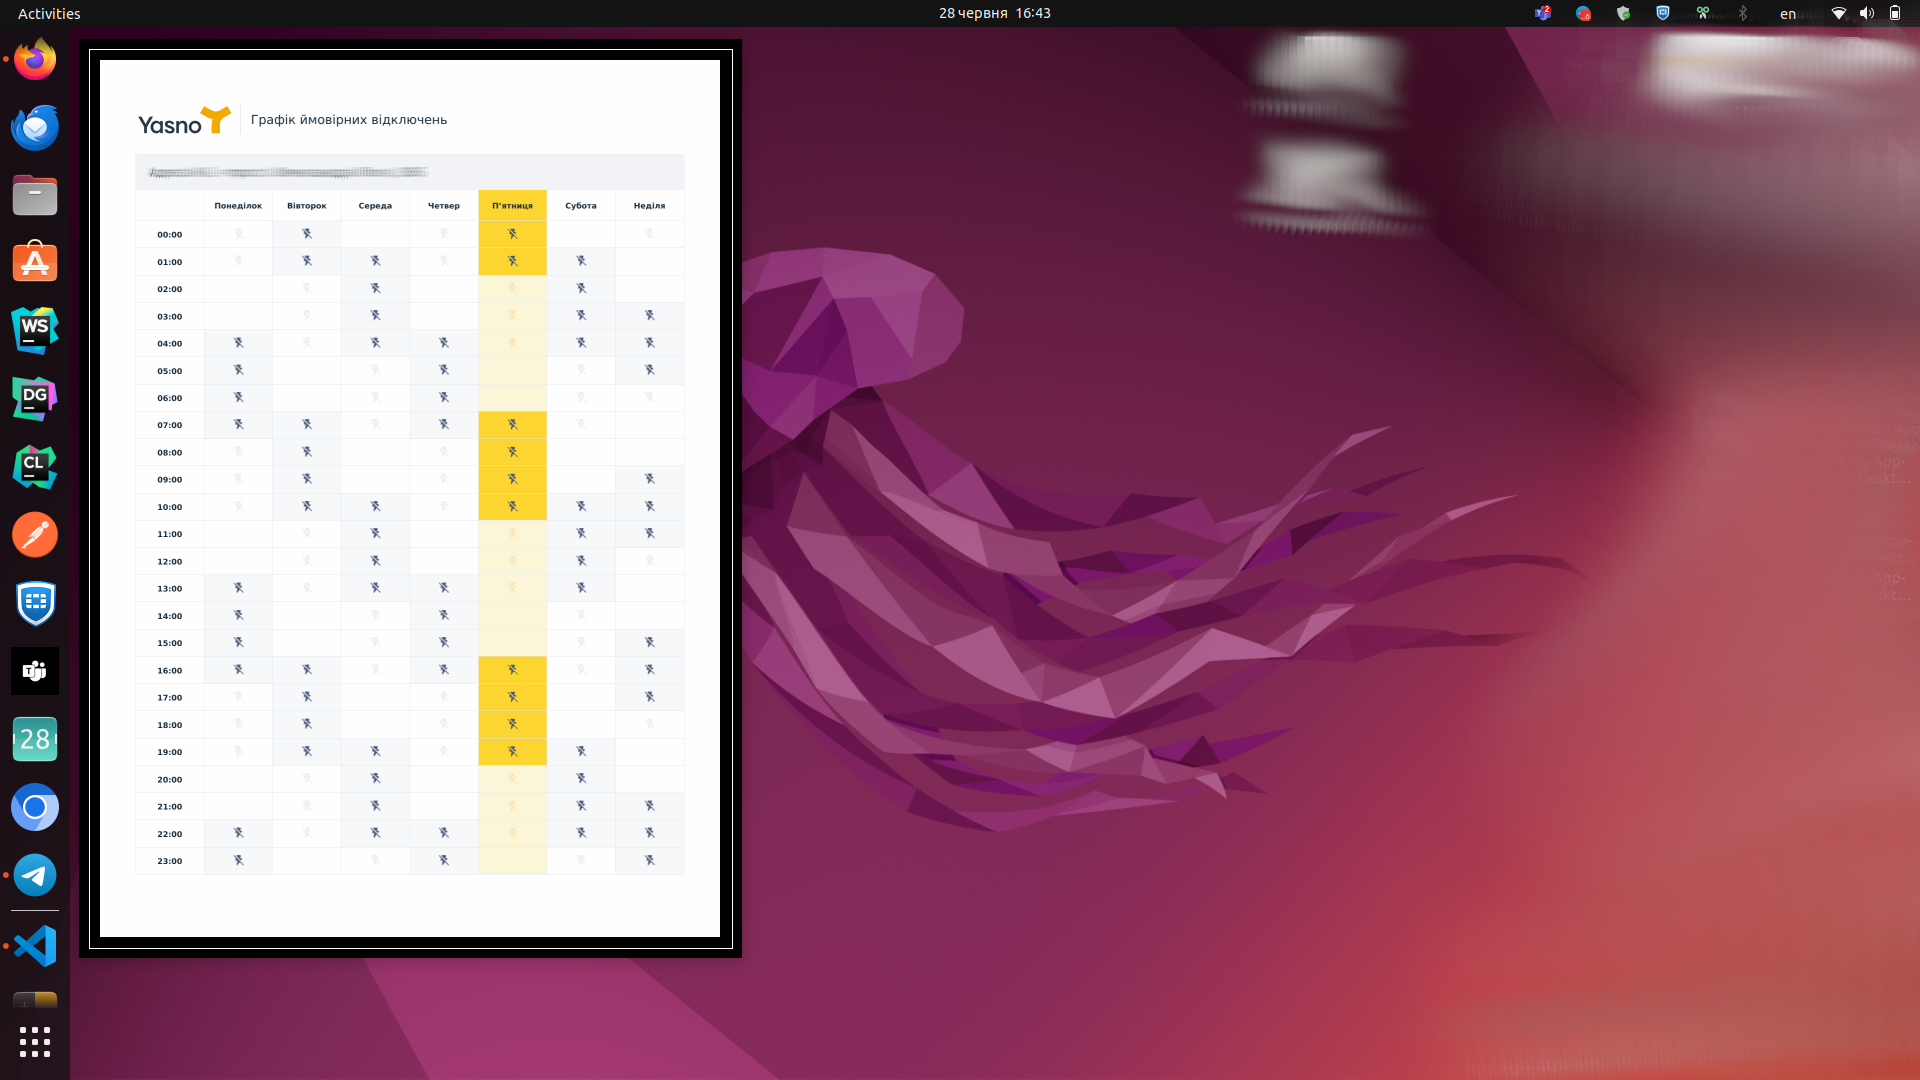
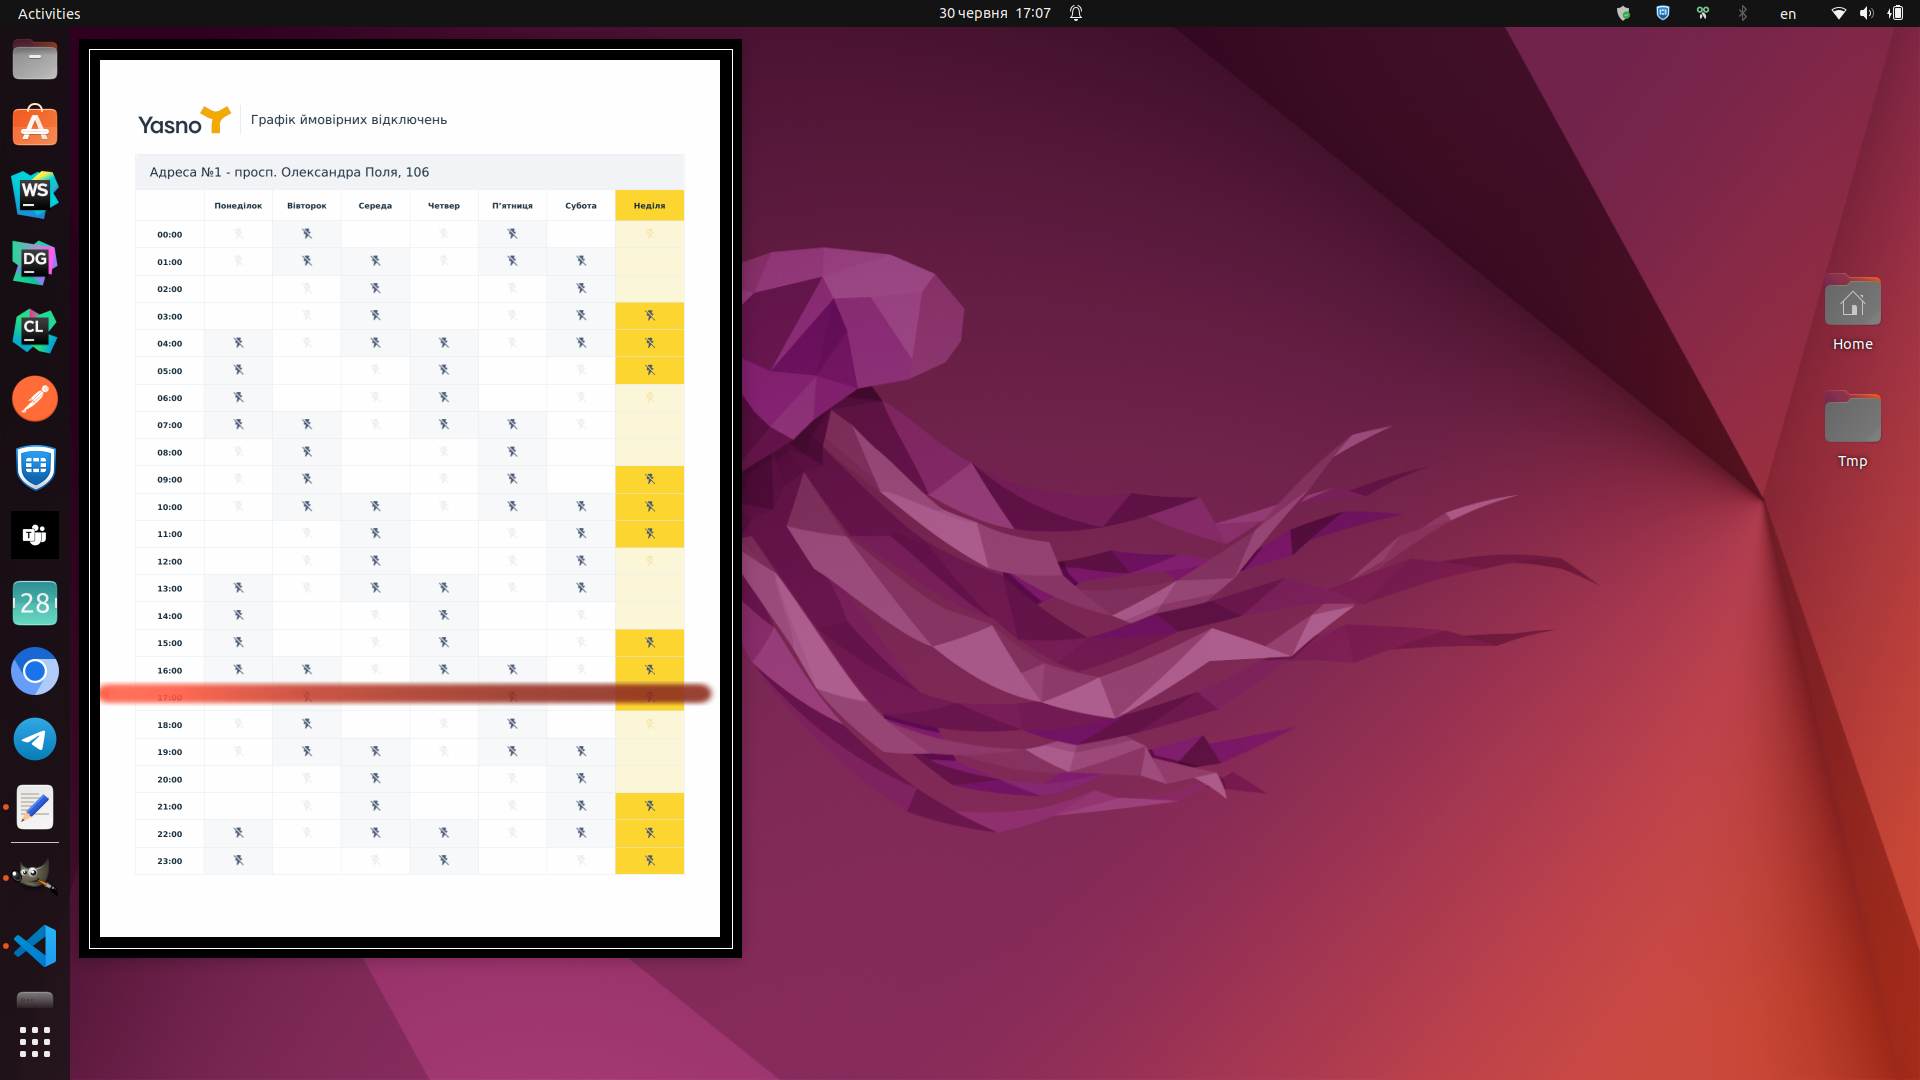
added new functionality + ddns pinging

diff --git a/README.md b/README.md
@@ -1,5 +1,9 @@
 # conky-yasno
-This conky theme displays [YASNO](https://yasno.com.ua/) power outages.
+This conky theme displays [YASNO](https://yasno.com.ua/) power outages with real-time pinging of remote DDNS.
+
+* Line is RED - no power
+* Line is GREEN - power is on
+* Line is ORANGE - ping is not set up
 
 ![](./docs/screenshot.png)
 
@@ -33,5 +37,5 @@ You can use different tools if you want, from a smart outlet - to an old phone.
 By default this function is disabled, so you will need to turn on it and insert your url to `config.json`.
 
 ## Tests
-This code/script has been tested on Ubuntu 22
+This code has been tested on Ubuntu 22
 
